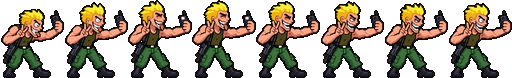
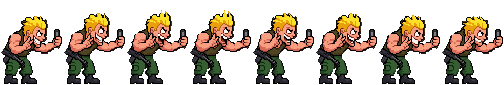
v0.15.1: pozy zwycięstwa na bazie sprite'ów z gry
Claude-Session: https://claude.ai/code/session_01XgXXrYarijhyY2khEfGGY8

diff --git a/index.html b/index.html
@@ -11,7 +11,7 @@
 <body>
 <div id="scr">
   <canvas id="c" width="640" height="360"></canvas>
-  <div class="layer" id="title"><div id="tshade"></div><div id="ver">v0.15.0</div><img id="logo" alt="Megarozwałka w Wujasowie"><div id="press">NACIŚNIJ START</div><div id="menu"></div><div id="panel"></div></div>
+  <div class="layer" id="title"><div id="tshade"></div><div id="ver">v0.15.1</div><img id="logo" alt="Megarozwałka w Wujasowie"><div id="press">NACIŚNIJ START</div><div id="menu"></div><div id="panel"></div></div>
   <div class="layer" id="select"><h1>SELEKT YOUR WUJAS OR CIOTKA</h1><div id="cards"></div><div class="shint">← → wybór · ENTER / Z / X zatwierdź · kliknij kartę</div></div>
   <div id="crt"></div>
 </div>

diff --git a/src/data.js b/src/data.js
@@ -359,13 +359,13 @@ const A={
      "fw": 128
     },
     "victory": {
-     "fw": 64,
-     "fh": 78,
+     "fw": 63,
+     "fh": 85,
      "n": 8,
      "flash": [
-      54,
-      15,
-      3
+      58,
+      30,
+      4
      ]
     }
    },
@@ -722,7 +722,7 @@ const A={
      "fw": 128
     },
     "victory": {
-     "fw": 68,
+     "fw": 57,
      "fh": 78,
      "n": 8
     }
@@ -1082,8 +1082,8 @@ const A={
      "fw": 128
     },
     "victory": {
-     "fw": 46,
-     "fh": 85,
+     "fw": 57,
+     "fh": 102,
      "n": 8
     }
    },

diff --git a/CHANGELOG.md b/CHANGELOG.md
@@ -8,6 +8,11 @@ Numer wersji widać w prawym dolnym rogu ekranu tytułowego (`tools/bump.py`).
 - Repozytorium: podział kodu na moduły (`src/`), grafiki jako osobne pliki (`assets/`),
   skrypt budujący jeden plik HTML (`tools/build.py`), deploy na GitHub Pages.
 
+## [0.15.1] — 2026-11-14
+### Zmienione
+- Pozy zwycięstwa przerobione na bazie sprite'ów z gry (zamiast osobno generowanych postaci):
+  te same proporcje, wielkość pikseli i obrys co reszta animacji. Marewik nie jest już rozciągnięty wszerz, Łysa wygląda jak Łysa.
+
 ## [0.15.0] — 2026-11-14
 ### Dodane
 - Osobny przycisk pozy zwycięstwa w trakcie gry („szpan”): **V / T** na klawiaturze, **LB / Select** na padzie, **☺** na ekranie dotykowym.
@@ -113,7 +118,8 @@ Numer wersji widać w prawym dolnym rogu ekranu tytułowego (`tools/bump.py`).
 - HP 100 + 3 życia, kamizelka, mikroeksplozje pocisków, cienie kontaktowe, sterowanie dotykowe i pad.
 - Arena bossa z platformami, Agent B.R.S z animacjami (chód, strzał, gwizdek, śmierć) i mechanicznymi ramionami.
 
-[Unreleased]: ../../compare/v0.15.0...HEAD
+[Unreleased]: ../../compare/v0.15.1...HEAD
+[0.15.1]: ../../releases/tag/v0.15.1
 [0.15.0]: ../../releases/tag/v0.15.0
 [0.14.0]: ../../releases/tag/v0.14.0
 [0.13.1]: ../../releases/tag/v0.13.1

diff --git a/README.md b/README.md
@@ -4,7 +4,7 @@
 **Badziejek**, **Marewik** i **Łysa** — przebija się przez zaślimaczoną Piwnicę
 aż do **Agenta B.R.S** i jego mechanicznych ramion.
 
-![wersja](https://img.shields.io/badge/wersja-v0.15.0-ffd040) ![HTML5](https://img.shields.io/badge/HTML5-canvas-e8203a)
+![wersja](https://img.shields.io/badge/wersja-v0.15.1-ffd040) ![HTML5](https://img.shields.io/badge/HTML5-canvas-e8203a)
 
 ## Zagraj
 
